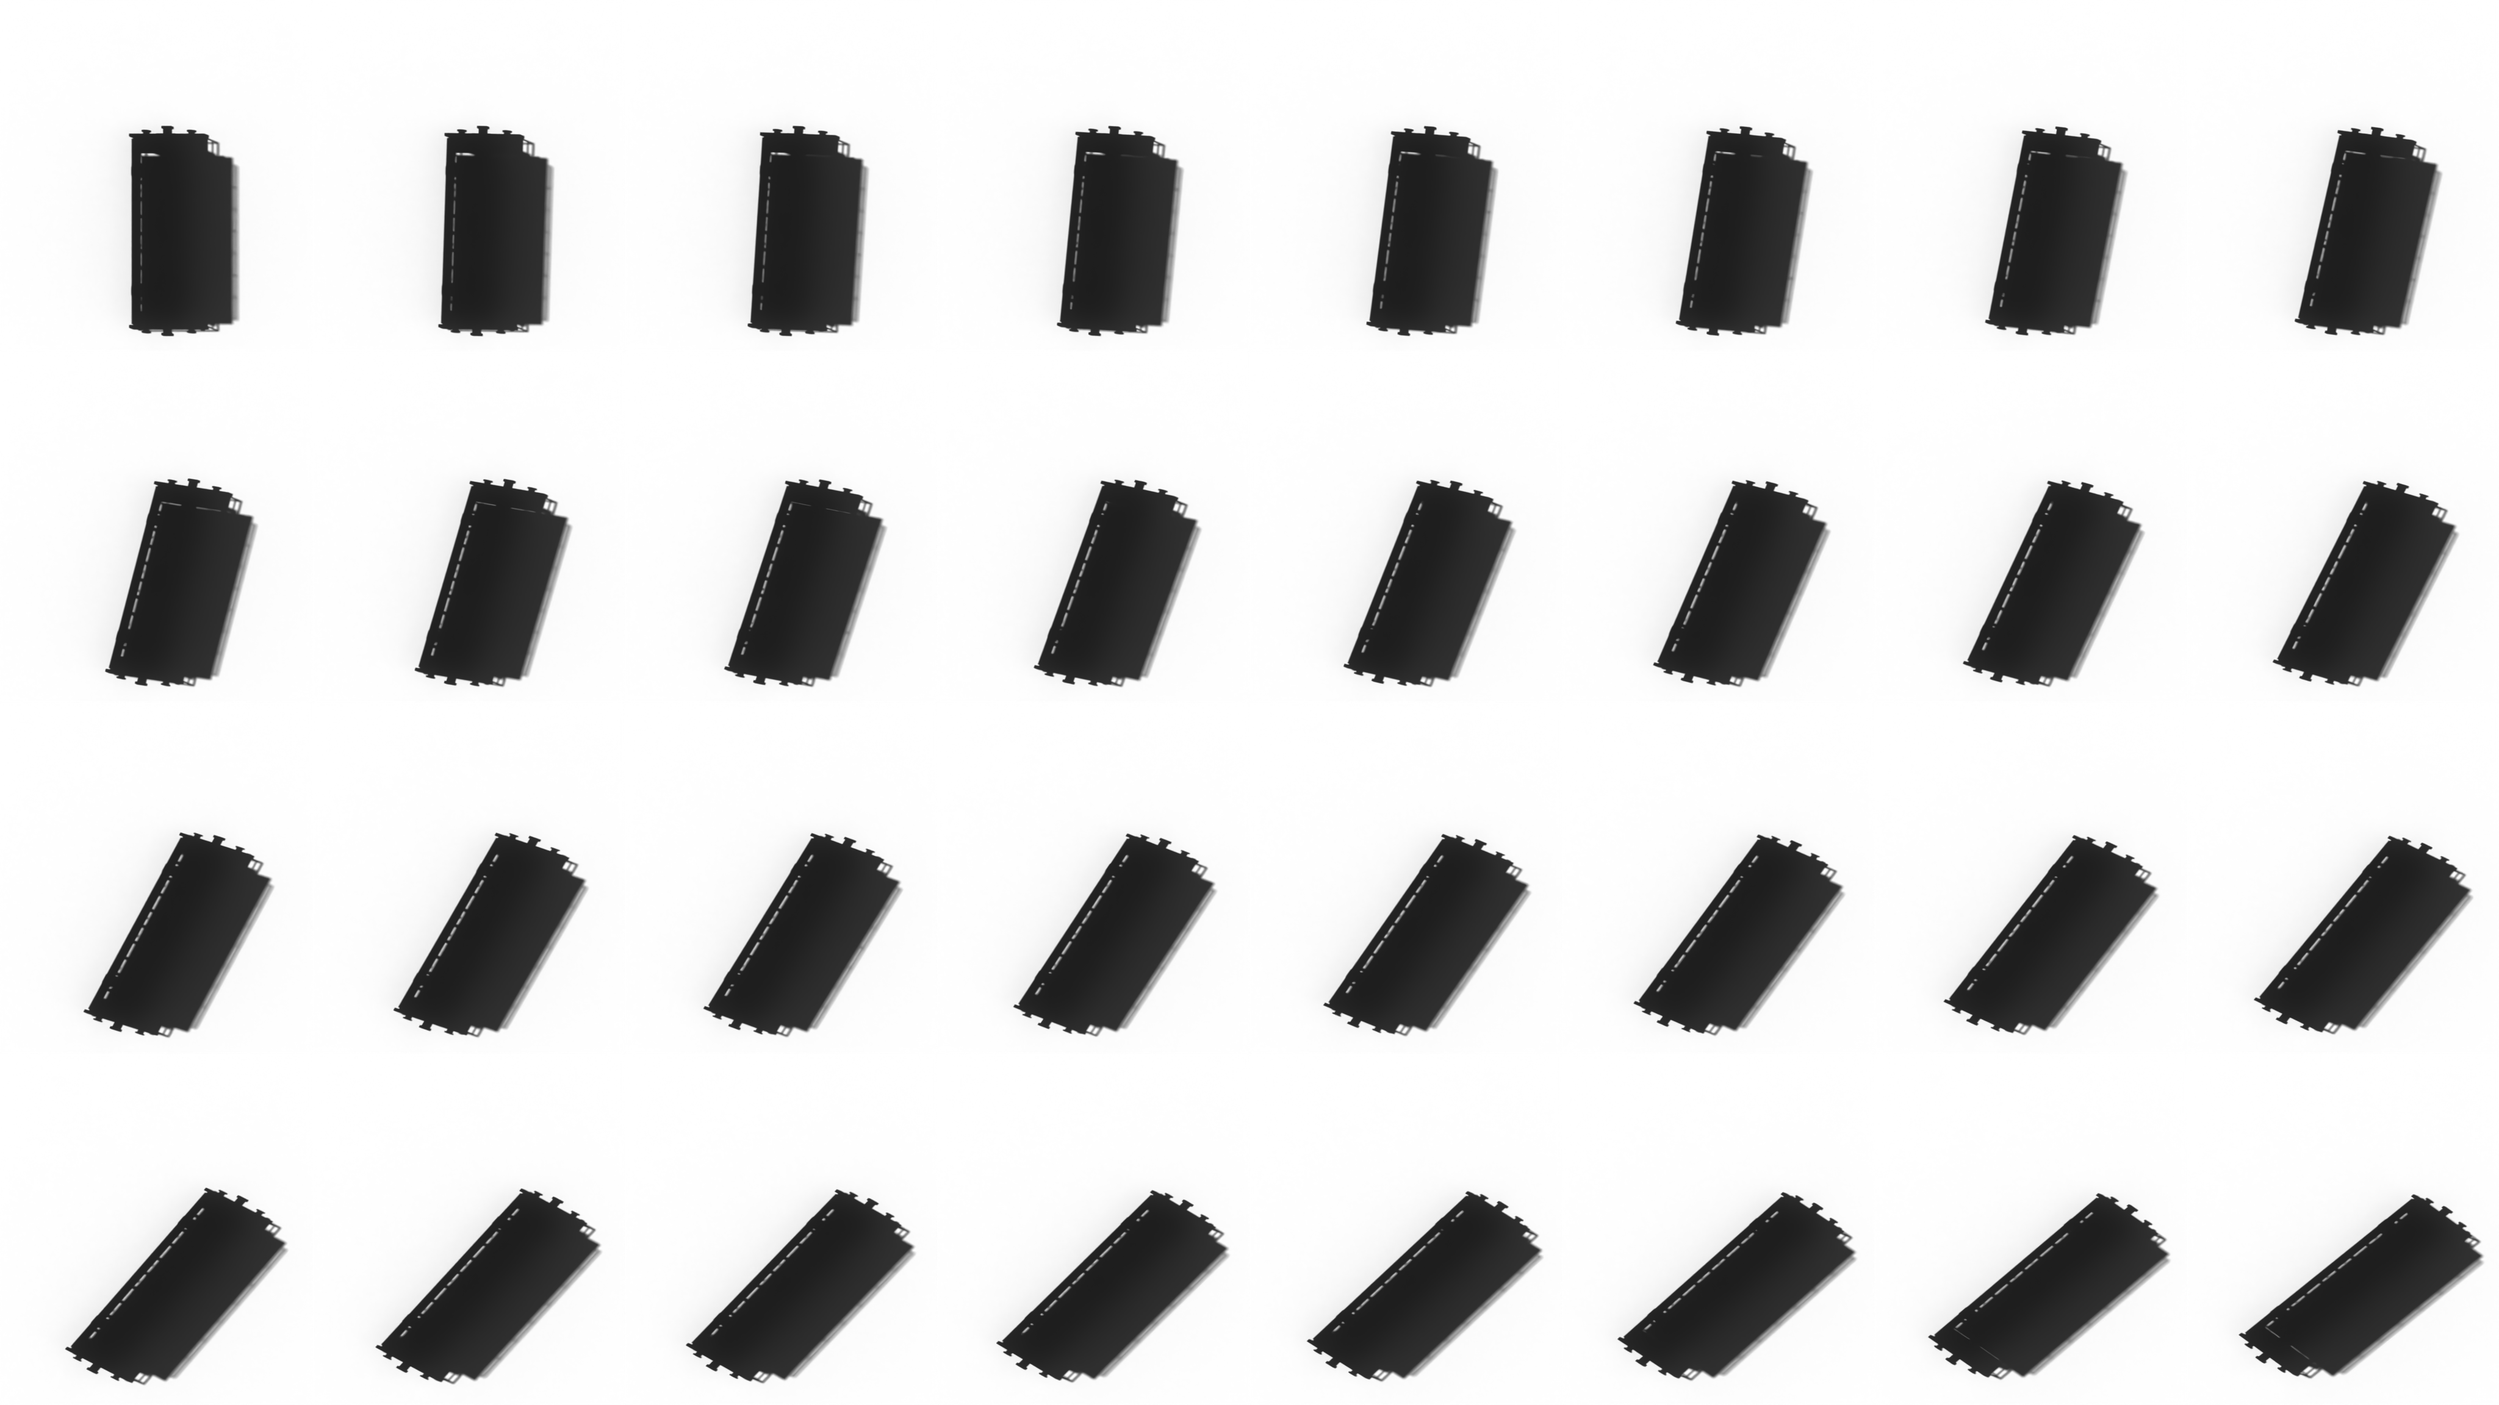
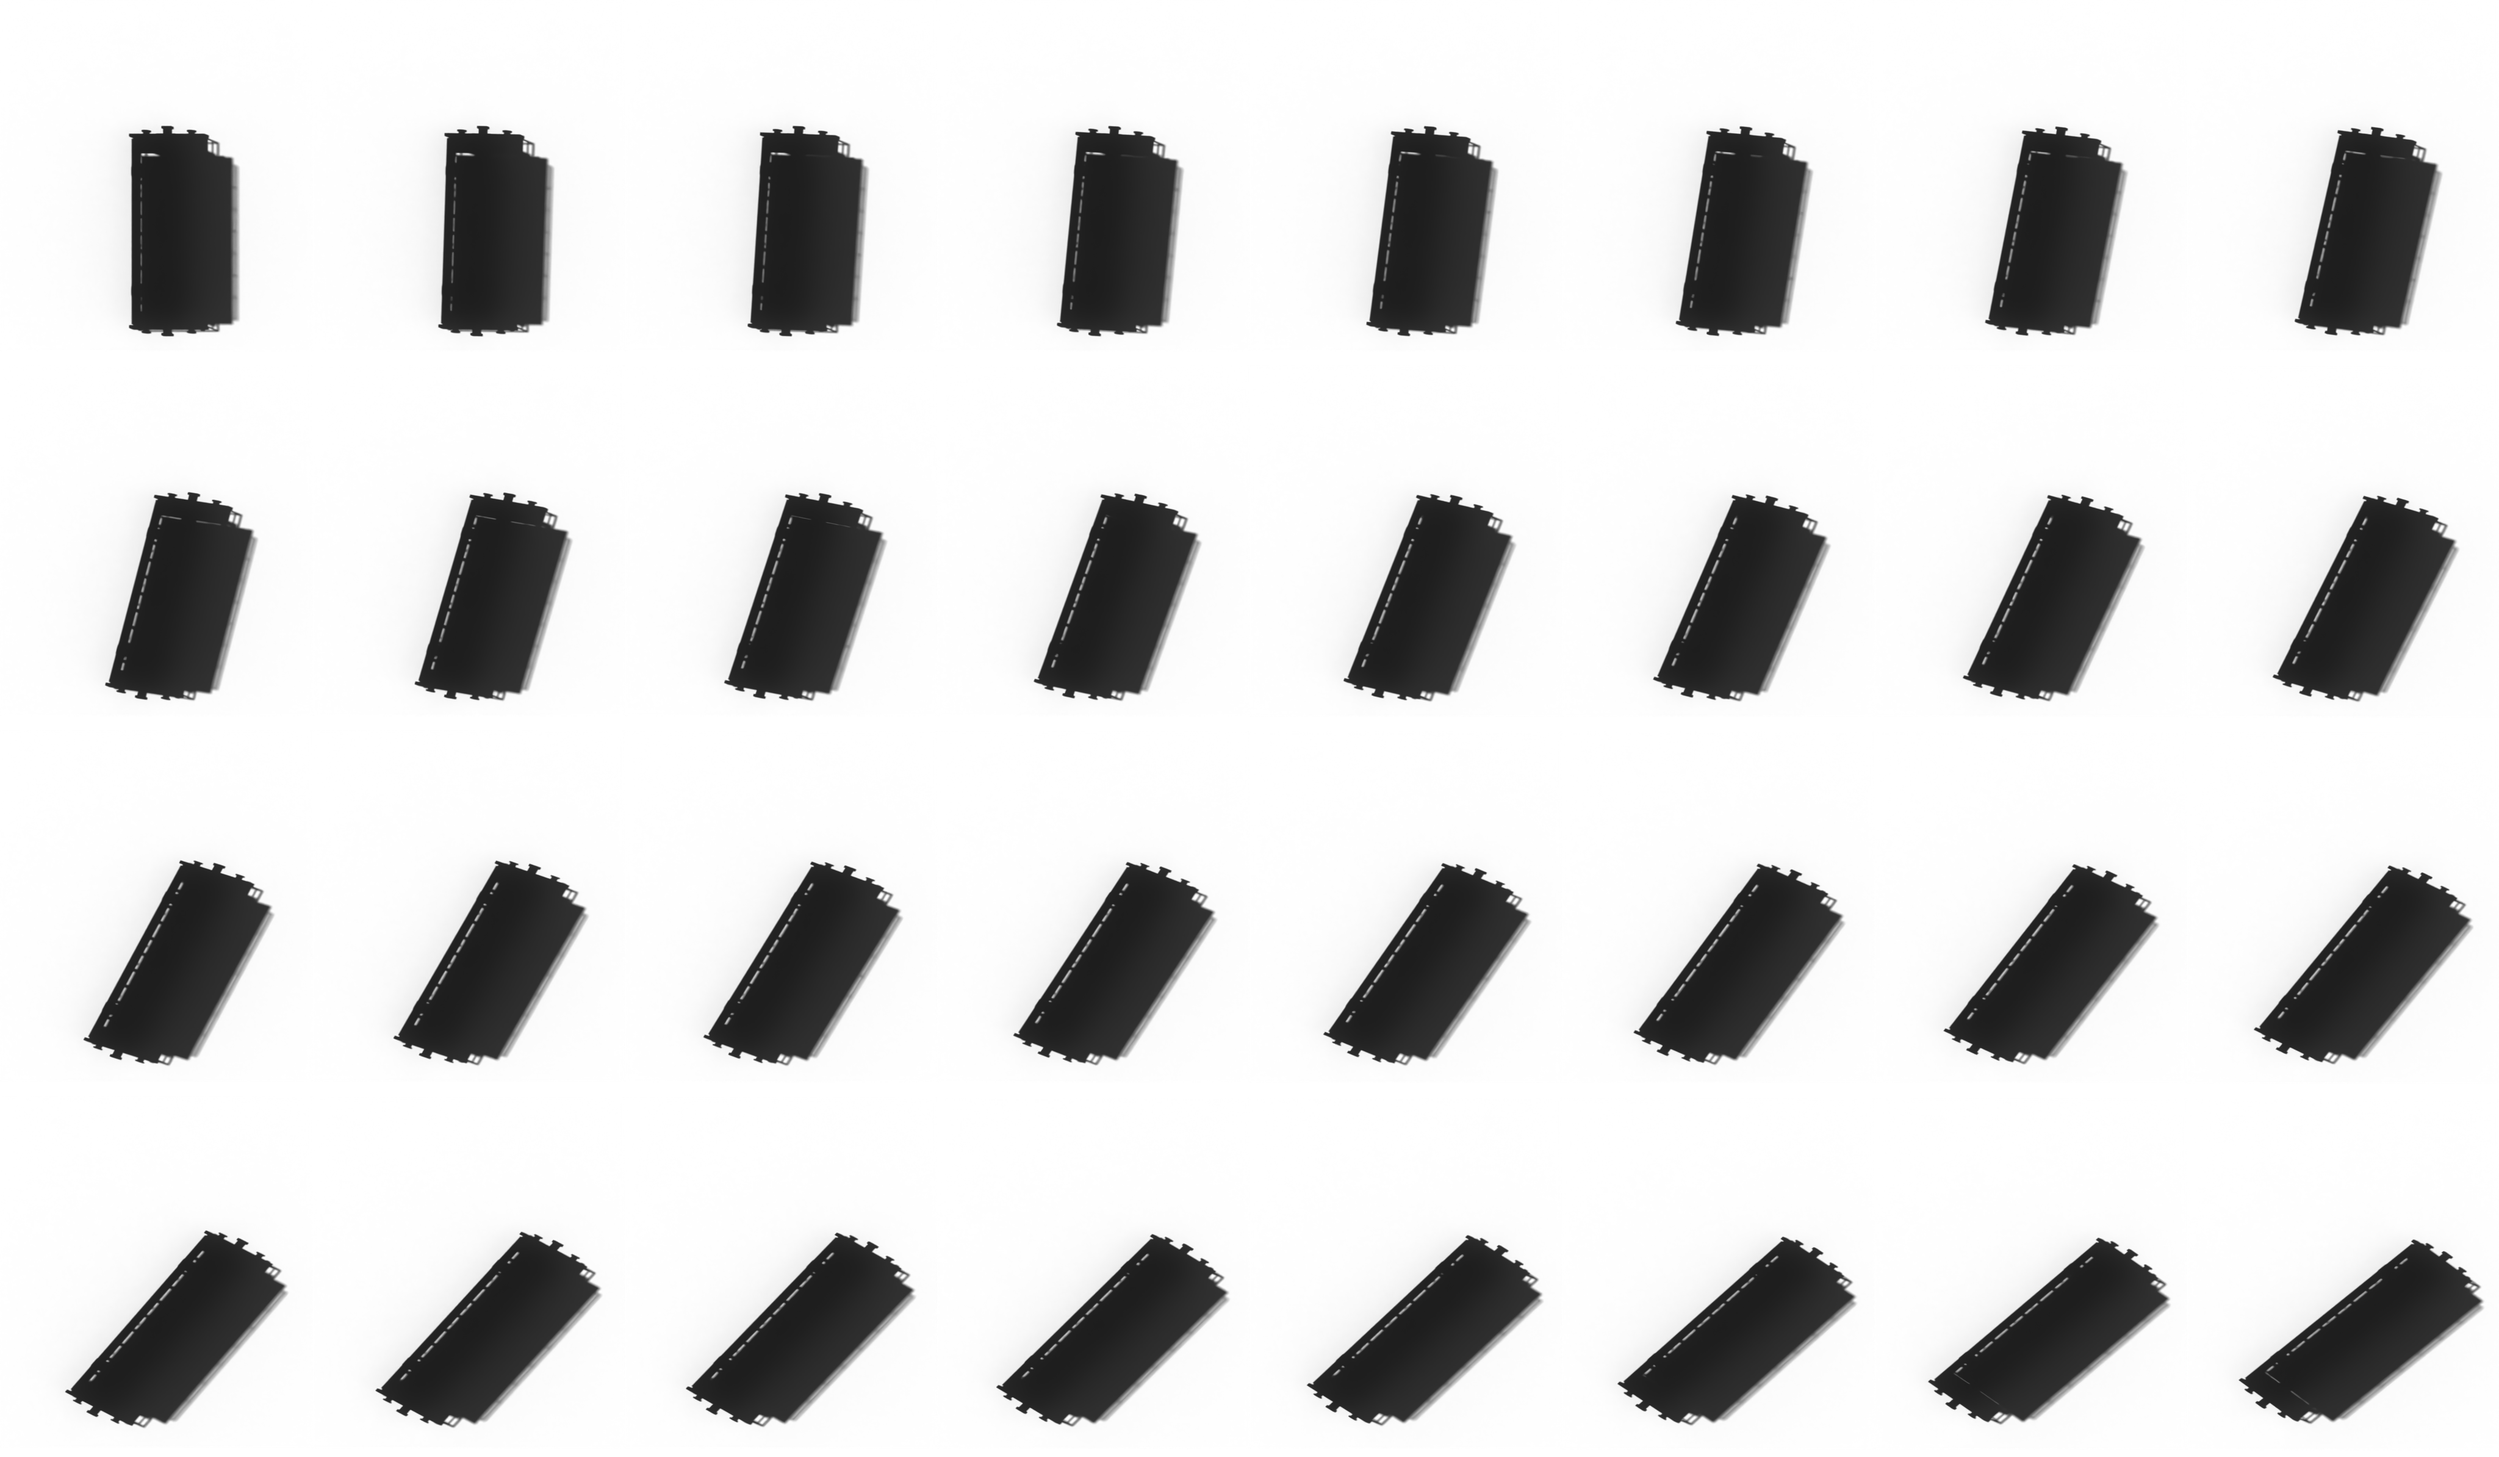
Lift north/south wagon frames to close the gap to the train ahead
The orthographic render shortens the wagon along the track, so in vertical
frames it sat ~0.33 tiles too low between its neighbours. build_sprites now
moves each frame up by 0.33 * cos² of its orientation; the current sheets
are patched the same way until the next full render.

Claude-Session: https://claude.ai/code/session_012U1F3Mps7ZQNK2M3EeMnz9

diff --git a/tools/blender/build_sprites.py b/tools/blender/build_sprites.py
@@ -15,11 +15,26 @@ OUT = os.path.join(ROOT, "graphics", "entity")
 # default colours, as in prototypes/wagon.lua and shared.station_color
 WAGON_COLOR = (0.56, 0.23, 0.15)
 STATION_COLOR = (0.45, 0.5, 0.22)
-
+# Lift of the north/south frames in tiles. The orthographic camera shortens the
+# wagon along the track, so a straight wagon would sit low between its neighbours
+# (in game it measured ~0.33 tiles too far from the train ahead).
+WAGON_LIFT = 0.33
 
 
 def frames(src, kind, count, stretch):
     return [pack.load(src, kind, i, stretch) for i in range(count)]
+
+
+def lifted(images, lift):
+    """Moves each wagon frame up by lift tiles, scaled by how much it faces north/south."""
+    from PIL import Image
+    out = []
+    for i, im in enumerate(images):
+        dy = round(lift * 64 * math.cos(2 * math.pi * i / (2 * len(images))) ** 2)
+        moved = Image.new("RGBA", im.size)
+        moved.paste(im, (0, -dy))
+        out.append(moved)
+    return out
 
 
 def write_sheet(images, origin, name, line_length, lines_per_file=None):
@@ -88,7 +103,7 @@ def main(render_dir):
     src = os.path.join(render_dir, "w1")
     if os.path.isdir(src):
         o = origin_of(src, 1.0)
-        meta["wagon"] = {kind: write_sheet(frames(src, kind, 128, 1.0), o, f"bulk-wagon-{kind}", 8, 4)
+        meta["wagon"] = {kind: write_sheet(lifted(frames(src, kind, 128, 1.0), WAGON_LIFT), o, f"bulk-wagon-{kind}", 8, 4)
                          for kind in ("color", "mask", "shadow", "load1", "load2", "load3", "load4")}
 
     for key, layers in (
